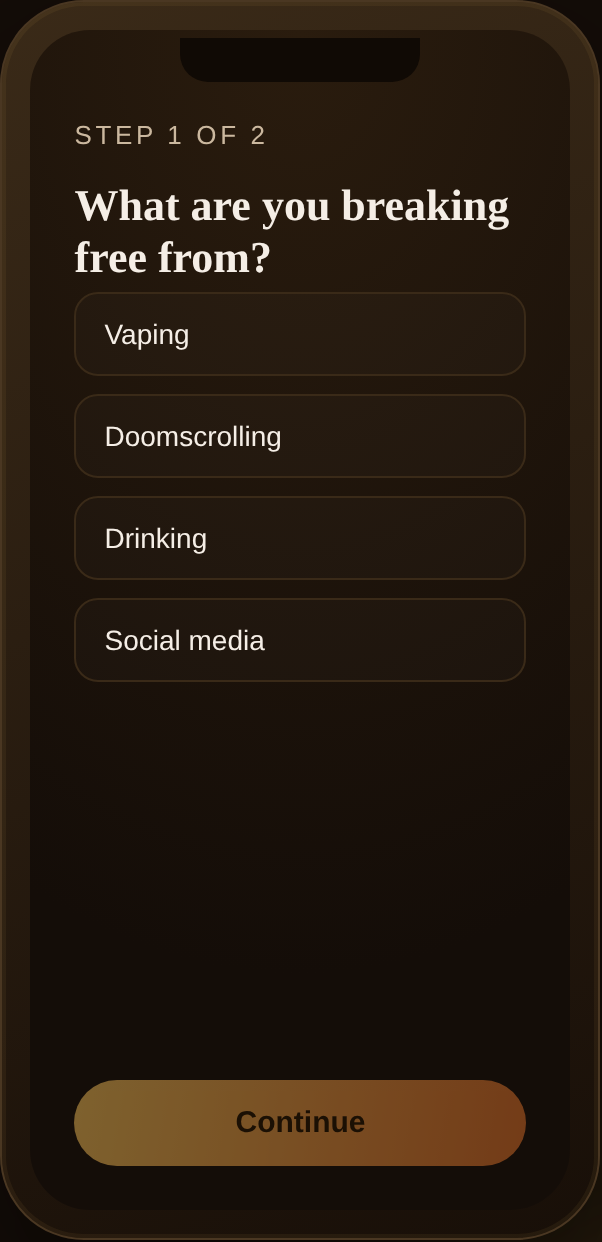
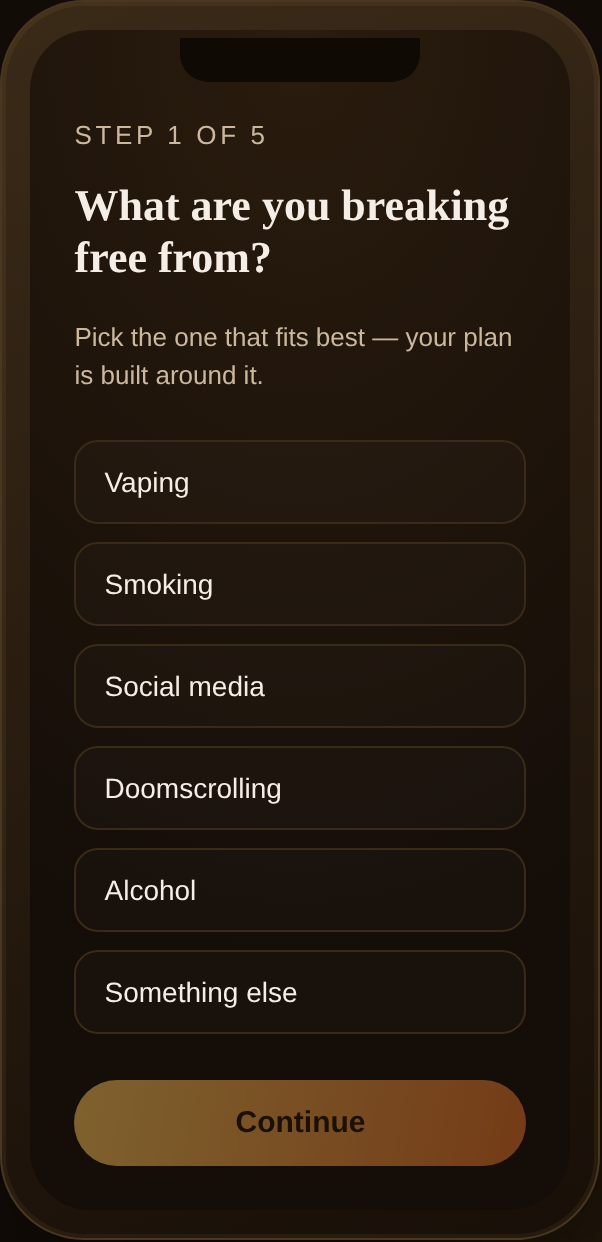
Make the web emulator a faithful 1:1 of the real app
Rebuild the in-browser demo to mirror the actual Android screens exactly:
the real 5-step QuizActivity (habit / duration / triggers multi-select /
daily cost / freedom text) -> the real paywall -> the real DashboardActivity
(days-free hero, money saved, urges, share/settings header, affirmation +
panic buttons, reset link) -> the AffirmationPlayerActivity, plus a
milestone screen. Same copy, same gold/copper brand theme as the app
(after the colors.xml re-skin). Refresh committed screenshots.

diff --git a/microsite/assets/app.js b/microsite/assets/app.js
@@ -1,4 +1,7 @@
-/* Power of Mind — microsite interactions + in-browser app demo */
+/* Power of Mind — microsite interactions + faithful in-browser app emulator.
+   The phone demo mirrors the real Android screens 1:1 (QuizActivity →
+   paywall → DashboardActivity → AffirmationPlayerActivity), same copy,
+   same gold theme, with sample data. */
 (function () {
   "use strict";
   const reduce = matchMedia("(prefers-reduced-motion:reduce)").matches;
@@ -9,12 +12,9 @@
     const ctx = canvas.getContext("2d");
     let W, H, embers = [];
     const spawn = (rand) => ({
-      x: Math.random() * W,
-      y: rand ? Math.random() * H : H + 10,
-      r: Math.random() * 2.2 + 0.6,
-      s: Math.random() * 0.6 + 0.2,
-      drift: (Math.random() - 0.5) * 0.4,
-      a: Math.random() * 0.5 + 0.2,
+      x: Math.random() * W, y: rand ? Math.random() * H : H + 10,
+      r: Math.random() * 2.2 + 0.6, s: Math.random() * 0.6 + 0.2,
+      drift: (Math.random() - 0.5) * 0.4, a: Math.random() * 0.5 + 0.2,
       hue: Math.random() * 30 + 25,
     });
     const resize = () => { W = canvas.width = innerWidth; H = canvas.height = innerHeight; };
@@ -27,8 +27,7 @@
         const g = ctx.createRadialGradient(e.x, e.y, 0, e.x, e.y, e.r * 4);
         g.addColorStop(0, `hsla(${e.hue},100%,65%,${e.a})`);
         g.addColorStop(1, `hsla(${e.hue},100%,55%,0)`);
-        ctx.fillStyle = g;
-        ctx.beginPath(); ctx.arc(e.x, e.y, e.r * 4, 0, 7); ctx.fill();
+        ctx.fillStyle = g; ctx.beginPath(); ctx.arc(e.x, e.y, e.r * 4, 0, 7); ctx.fill();
       }
       requestAnimationFrame(tick);
     };
@@ -47,11 +46,7 @@
     }
   };
   addEventListener("scroll", applyParallax, { passive: true });
-  addEventListener("mousemove", (e) => {
-    mx = e.clientX / innerWidth - 0.5;
-    my = e.clientY / innerHeight - 0.5;
-    if (!reduce) applyParallax();
-  });
+  addEventListener("mousemove", (e) => { mx = e.clientX / innerWidth - 0.5; my = e.clientY / innerHeight - 0.5; if (!reduce) applyParallax(); });
 
   /* ---------------- Reveal + stat counters ---------------- */
   const io = new IntersectionObserver((entries) => {
@@ -63,86 +58,120 @@
     }
   }, { threshold: 0.18 });
   document.querySelectorAll(".reveal, .stat").forEach((el) => io.observe(el));
-
   function countUp(stat) {
-    const el = stat.querySelector(".stat-num");
-    if (!el) return;
-    const target = +el.dataset.count || 0;
-    const prefix = el.dataset.prefix || "";
-    let cur = 0;
-    const step = target / 60;
-    const t = setInterval(() => {
-      cur += step;
-      if (cur >= target) { cur = target; clearInterval(t); }
-      el.textContent = prefix + Math.floor(cur).toLocaleString();
-    }, 16);
+    const el = stat.querySelector(".stat-num"); if (!el) return;
+    const target = +el.dataset.count || 0, prefix = el.dataset.prefix || "";
+    let cur = 0; const step = target / 60;
+    const t = setInterval(() => { cur += step; if (cur >= target) { cur = target; clearInterval(t); } el.textContent = prefix + Math.floor(cur).toLocaleString(); }, 16);
   }
 
-  /* ===================== APP DEMO ===================== */
+  /* ===================== FAITHFUL APP EMULATOR ===================== */
   const screen = document.getElementById("appScreen");
   if (!screen) return;
 
-  const state = { habit: "vaping", habitLabel: "vaping", cost: 7, days: 7 };
+  const state = { habit: "vaping", habitLabel: "vaping", cost: 7, days: 7, triggers: new Set() };
 
+  // Mirrors AffirmationContent.kt
   const AFF = {
-    vaping: ["My lungs are healing with every clean breath.", "I am not a smoker. I am free.", "This craving will pass — whether I feed it or not."],
+    vaping: ["My lungs are healing with every clean breath.", "I breathe deeply, because I can.", "I am not a smoker. I am free."],
+    smoking: ["Each smoke-free hour is a gift to my future self.", "I am clean, clear, and in control.", "My body thanks me for every craving I ride out."],
     alcohol: ["I wake up clear, and I am proud of that.", "I don't need a drink to feel at ease.", "Clear-headed is my natural state."],
-    doomscrolling: ["I put the phone down and pick my life up.", "My attention belongs to me.", "I decide what deserves my attention."],
     social_media: ["My attention belongs to me.", "I am fully present in my real life.", "The feed can wait. My life cannot."],
-    _general: ["I am stronger than this craving.", "Every clean hour is rebuilding me.", "I choose the person I am becoming."],
+    doomscrolling: ["I put the phone down and pick my life up.", "My mind is calm when I stop feeding it noise.", "I decide what deserves my attention."],
+    _general: ["I am stronger than this craving.", "This urge will pass — whether I feed it or not.", "Every clean hour is rebuilding me.", "I choose the person I am becoming.", "I am free, one breath at a time."],
   };
   const affLines = () => (AFF[state.habit] || []).concat(AFF._general);
+  const habitWord = () => (state.habit === "other" ? "the habit" : state.habitLabel);
 
-  const opt = (label, key, cost) =>
-    `<div class="opt" data-action="pick" data-key="${key}" data-label="${label}" data-cost="${cost}">${label}</div>`;
+  // The real 5-step QuizActivity
+  const QUIZ = [
+    { title: "What are you breaking free from?", sub: "Pick the one that fits best — your plan is built around it.", type: "single",
+      opts: [["Vaping", "vaping", 7], ["Smoking", "smoking", 9], ["Social media", "social_media", 0], ["Doomscrolling", "doomscrolling", 0], ["Alcohol", "alcohol", 12], ["Something else", "other", 0]] },
+    { title: "How long have you been trying to quit?", sub: "There's no wrong answer. This just sets the right pace.", type: "single",
+      opts: [["I'm just starting"], ["Less than a month"], ["1–6 months"], ["Over 6 months"]] },
+    { title: "When do the urges hit hardest?", sub: "Choose all that apply — affirmations will target these moments.", type: "multi",
+      opts: [["Stress"], ["Boredom"], ["Loneliness"], ["After meals"], ["Social situations"], ["Mornings"], ["Late nights"]] },
+    { title: "Roughly what does the habit cost you a day?", sub: "We'll turn every clean day into money saved.", type: "cost",
+      opts: [["Under $5", 3], ["$5–$10", 7], ["$10–$20", 15], ["Over $20", 25]] },
+    { title: "What will freedom feel like?", sub: "One line, in your own words. We'll weave it into your affirmations.", type: "text" },
+  ];
+  let step = 0;
+
+  const optRow = (label) => `<div class="opt" data-pick>${label}</div>`;
+
+  function quizScreen() {
+    const q = QUIZ[step];
+    let body;
+    if (q.type === "text") {
+      body = `<input class="aff-input" data-text placeholder="e.g. waking up clear-headed, present with my kids…" />`;
+    } else {
+      body = q.opts.map((o) => optRow(o[0])).join("");
+    }
+    const cta = step === QUIZ.length - 1 ? "See my plan" : "Continue";
+    return `
+      <p class="sub" style="letter-spacing:.14em;margin-bottom:6px">STEP ${step + 1} OF ${QUIZ.length}</p>
+      <h4>${q.title}</h4>
+      <p class="sub">${q.sub}</p>
+      <div class="opts-wrap">${body}</div>
+      <button class="pill" data-cont ${q.type === "text" ? "" : "disabled style=\"opacity:.45\""}>${cta}</button>`;
+  }
 
   const screens = {
     welcome: () => `
       <div style="margin:auto;text-align:center">
-        <div style="font-size:46px">🛡</div>
+        <div class="orb-mini" aria-hidden="true"></div>
         <h4 style="text-align:center">Power of Mind</h4>
-        <p class="sub" style="text-align:center">Break free from the habit holding you back. Build your plan in four taps.</p>
+        <p class="sub" style="text-align:center">Break free from the habit holding you back. Build your plan in a minute.</p>
       </div>
-      <button class="pill" data-action="go" data-to="q_habit">Begin</button>`,
-    q_habit: () => `
-      <p class="sub" style="letter-spacing:.14em;margin-bottom:6px">STEP 1 OF 2</p>
-      <h4>What are you breaking free from?</h4>
-      ${opt("Vaping", "vaping", 7)}${opt("Doomscrolling", "doomscrolling", 0)}${opt("Drinking", "alcohol", 12)}${opt("Social media", "social_media", 0)}
-      <button class="pill" data-cont data-action="cont-habit" disabled style="opacity:.45">Continue</button>`,
-    q_trigger: () => `
-      <p class="sub" style="letter-spacing:.14em;margin-bottom:6px">STEP 2 OF 2</p>
-      <h4>When do urges hit hardest?</h4>
-      ${opt("Stress", "stress", 0)}${opt("Boredom", "boredom", 0)}${opt("Late nights", "nights", 0)}${opt("After meals", "meals", 0)}
-      <button class="pill" data-cont data-action="cont-trigger" disabled style="opacity:.45">See my plan</button>`,
+      <button class="pill" data-action="startquiz">Begin</button>`,
+    quiz: quizScreen,
     paywall: () => `
-      <h4>Your plan is ready</h4>
-      <p class="sub">A daily affirmation path built around your triggers, plus a panic button for the hard moments.</p>
-      <div class="mini-card"><span>✓ Daily audio affirmations</span></div>
-      <div class="mini-card"><span>✓ Clean-day &amp; money tracker</span></div>
-      <div class="mini-card"><span>✓ One-tap panic button</span></div>
-      <div class="mini-card" style="border-color:var(--gold)"><span><b>Annual — best value</b></span><b>$39.99/yr</b></div>
-      <button class="pill" data-action="start">Start my journey</button>
-      <button class="pill ghost" data-action="start">Preview the app (demo)</button>`,
+      <h4>Your free-from plan is ready</h4>
+      <p class="sub">A daily affirmation path built around your triggers to help you stay free from ${habitWord()} — plus a one-tap panic button for the hard moments.</p>
+      <div class="benefit">✓ Daily audio affirmations over calming soundscapes</div>
+      <div class="benefit">✓ Track every clean day and the money you save</div>
+      <div class="benefit">✓ One-tap panic button to ride out cravings</div>
+      <div class="benefit">✓ Milestone celebrations that keep you going</div>
+      <div class="plan-opt sel" data-plan><b>Annual — best value</b><span>$39.99/yr</span></div>
+      <div class="plan-opt" data-plan>Monthly<span>$9.99/mo</span></div>
+      <button class="pill" data-action="dashboard">Start my journey</button>
+      <div class="link-row" data-action="dashboard">Preview the app (demo)</div>`,
     dashboard: () => `
-      <p class="sub" style="margin-bottom:4px">Stay free today.</p>
-      <div class="hero-num" data-days>0</div>
-      <div class="hero-cap">DAYS FREE</div>
-      <div class="hero-habit">free from ${state.habitLabel} · best: ${state.days} days</div>
-      <div class="mini-card"><span>💰 Money saved</span><b data-money>$0.00</b></div>
-      <div class="mini-card"><span>🛡 Urges beaten</span><b>4</b></div>
-      <button class="pill" data-action="player">▶ Today's affirmation</button>
-      <button class="panic" data-action="player">🆘 I'm having an urge</button>`,
+      <div class="dash-head">
+        <span class="sub" style="flex:1">Stay free today.</span>
+        <span class="ic" data-action="player">↗</span>
+        <span class="ic">⚙</span>
+      </div>
+      <div class="card-hero">
+        <div class="hero-num" data-days>0</div>
+        <div class="hero-cap">DAYS FREE</div>
+        <div class="hero-habit">free from ${habitWord()} · best: ${state.days} days</div>
+      </div>
+      <div class="mini-card"><span>💰  Money saved</span><b data-money style="color:var(--gold)">$0.00</b></div>
+      <div class="mini-card"><span>🛡  Urges beaten</span><b style="color:var(--amber)">4</b></div>
+      <button class="pill" data-action="player">▶   Today's affirmation</button>
+      <button class="panic" data-action="player">🆘   I'm having an urge</button>
+      <div class="link-row faint" data-action="milestone">I slipped — reset my counter</div>`,
     player: () => `
-      <div style="display:flex;justify-content:flex-end"><span data-close style="cursor:pointer;color:var(--muted);font-size:20px" data-action="back-dash">✕</span></div>
+      <div class="player-bar"><span class="ic">🔈</span><span class="ic" data-action="dashboard">✕</span></div>
       <div class="aff-line" data-aff>${affLines()[0]}</div>
-      <div class="aff-cap">Breathe slowly · let each line land</div>
-      <button class="pill ghost" data-action="back-dash" style="margin-top:14px">Done</button>`,
+      <div class="aff-cap">♪  Breathe slowly · let each line land</div>
+      <button class="pill ghost" data-action="dashboard" style="margin-top:14px">Done</button>`,
+    milestone: () => `
+      <div style="margin:auto;text-align:center">
+        <div style="font-size:48px">🏆</div>
+        <div class="hero-num">${state.days}</div>
+        <div class="hero-cap">DAYS FREE</div>
+        <p class="sub" style="text-align:center;margin-top:10px">One week free — momentum is yours.</p>
+      </div>
+      <button class="pill" data-action="dashboard">Keep going</button>`,
   };
 
   let cycleTimer = null;
   function show(id) {
     if (cycleTimer) { clearInterval(cycleTimer); cycleTimer = null; }
-    screen.innerHTML = `<div class="scr">${screens[id]()}</div>`;
+    const html = typeof screens[id] === "function" ? screens[id]() : screens[id];
+    screen.innerHTML = `<div class="scr">${html}</div>`;
     const el = screen.firstElementChild;
     requestAnimationFrame(() => el.classList.add("active"));
     if (id === "dashboard") animateDash(el);
@@ -150,50 +179,65 @@
   }
 
   function animateDash(el) {
-    const dEl = el.querySelector("[data-days]");
-    const mEl = el.querySelector("[data-money]");
-    const money = state.days * state.cost;
-    let d = 0, m = 0;
+    const dEl = el.querySelector("[data-days]"), mEl = el.querySelector("[data-money]");
+    const money = state.days * state.cost; let d = 0, m = 0;
     const t = setInterval(() => {
       d += state.days / 28; m += money / 28;
       if (d >= state.days) { d = state.days; m = money; clearInterval(t); }
-      dEl.textContent = Math.floor(d);
-      mEl.textContent = "$" + m.toFixed(2);
+      dEl.textContent = Math.floor(d); mEl.textContent = "$" + m.toFixed(2);
     }, 28);
   }
-
   function runPlayer(el) {
-    const lines = affLines();
-    const target = el.querySelector("[data-aff]");
-    let i = 0;
+    const lines = affLines(), target = el.querySelector("[data-aff]"); let i = 0;
     cycleTimer = setInterval(() => {
       target.style.opacity = 0;
       setTimeout(() => { i = (i + 1) % lines.length; target.textContent = lines[i]; target.style.opacity = 1; }, 500);
-    }, 3500);
+    }, 4000);
+  }
+
+  // advance enable/disable for the Continue button
+  function refreshCont() {
+    const q = QUIZ[step]; const cont = screen.querySelector("[data-cont]"); if (!cont) return;
+    let ok = q.type === "text";
+    if (q.type === "multi") ok = !!screen.querySelector(".opt.sel");
+    else if (q.type !== "text") ok = !!screen.querySelector(".opt.sel");
+    cont.disabled = !ok; cont.style.opacity = ok ? 1 : 0.45;
   }
 
   screen.addEventListener("click", (e) => {
-    const t = e.target.closest("[data-action]");
-    if (!t) return;
-    const a = t.dataset.action;
-    if (a === "go") return show(t.dataset.to);
-    if (a === "pick") {
-      screen.querySelectorAll(".opt").forEach((o) => o.classList.remove("sel"));
-      t.classList.add("sel");
-      screen._pick = { ...t.dataset };
-      const c = screen.querySelector("[data-cont]");
-      if (c) { c.disabled = false; c.style.opacity = 1; }
+    const opt = e.target.closest(".opt[data-pick]");
+    if (opt) {
+      const q = QUIZ[step];
+      if (q.type === "multi") opt.classList.toggle("sel");
+      else { screen.querySelectorAll(".opt").forEach((o) => o.classList.remove("sel")); opt.classList.add("sel"); }
+      refreshCont();
       return;
     }
-    if (a === "cont-habit") {
-      const p = screen._pick; if (!p) return;
-      state.habit = p.key; state.habitLabel = p.label.toLowerCase(); state.cost = +p.cost || 0;
-      return show("q_trigger");
+    const plan = e.target.closest("[data-plan]");
+    if (plan) { screen.querySelectorAll(".plan-opt").forEach((p) => p.classList.remove("sel")); plan.classList.add("sel"); return; }
+
+    const cont = e.target.closest("[data-cont]");
+    if (cont) {
+      const q = QUIZ[step];
+      const sel = screen.querySelector(".opt.sel");
+      if (step === 0 && sel) { // habit
+        const label = sel.textContent.trim();
+        const found = q.opts.find((o) => o[0] === label);
+        if (found) { state.habit = found[1] || "other"; state.habitLabel = label.toLowerCase(); state.cost = found[2] || 7; }
+      }
+      if (q.type === "cost" && sel) {
+        const found = q.opts.find((o) => o[0] === sel.textContent.trim());
+        if (found) state.cost = found[1];
+      }
+      if (step < QUIZ.length - 1) { step++; show("quiz"); } else { show("paywall"); }
+      return;
     }
-    if (a === "cont-trigger") return show("paywall");
-    if (a === "start") return show("dashboard");
-    if (a === "player") return show("player");
-    if (a === "back-dash") return show("dashboard");
+
+    const act = e.target.closest("[data-action]");
+    if (!act) return;
+    const a = act.dataset.action;
+    if (a === "startquiz") { step = 0; show("quiz"); }
+    else show(a);
   });
 
   show("welcome");

diff --git a/microsite/assets/styles.css b/microsite/assets/styles.css
@@ -142,6 +142,27 @@ section{padding:clamp(70px,10vw,130px) clamp(18px,6vw,40px);max-width:var(--maxw
 .foot-links a:hover{color:var(--gold)}
 .foot-fine{color:var(--faint);font-size:12px;max-width:620px;margin:0 auto;line-height:1.6}
 
+/* ---- faithful emulator screens (mirror the real app) ---- */
+.opts-wrap{display:flex;flex-direction:column;margin-top:6px}
+.aff-input{background:var(--bg2);border:1px solid var(--line);border-radius:12px;padding:13px;color:var(--cream);font-size:14px;margin-top:8px;width:100%;font-family:inherit}
+.aff-input::placeholder{color:var(--faint)}
+.benefit{color:var(--cream);font-size:13px;line-height:1.6;margin:3px 0}
+.plan-opt{display:flex;justify-content:space-between;align-items:center;border:1px solid var(--line);border-radius:12px;padding:12px 14px;margin-top:9px;font-size:14px;color:var(--cream);cursor:pointer;transition:.2s}
+.plan-opt:first-of-type{margin-top:18px}
+.plan-opt.sel{border-color:var(--gold);background:rgba(255,201,94,.08)}
+.plan-opt b{color:var(--gold)}
+.plan-opt span{color:var(--muted);font-size:13px}
+.dash-head{display:flex;align-items:center;gap:4px;margin-bottom:6px}
+.ic{color:var(--muted);font-size:18px;padding:4px 6px;cursor:pointer;border-radius:8px;transition:.2s}
+.ic:hover{color:var(--gold);background:rgba(255,201,94,.08)}
+.card-hero{background:rgba(255,255,255,.03);border:1px solid var(--line);border-radius:18px;padding:24px 16px;text-align:center;margin-bottom:12px}
+.player-bar{display:flex;justify-content:space-between;margin-bottom:6px}
+.link-row{text-align:center;color:var(--gold);font-size:13px;margin-top:12px;cursor:pointer;padding:6px}
+.link-row.faint{color:var(--faint)}
+.orb-mini{width:66px;height:66px;margin:0 auto 10px;border-radius:50%;
+  background:radial-gradient(circle at 50% 62%,#FFF1CC,#FFB347 45%,#E8742B);
+  box-shadow:0 0 28px rgba(255,150,60,.6);animation:breathe 4.5s ease-in-out infinite}
+
 /* ---- eye candy: energy field, sound toggle, ripple, tilt, button shine ---- */
 #energy{position:fixed;inset:0;width:100%;height:100%;z-index:0;pointer-events:none}
 .logo-orb,.hero-title{transition:transform .25s ease-out}
